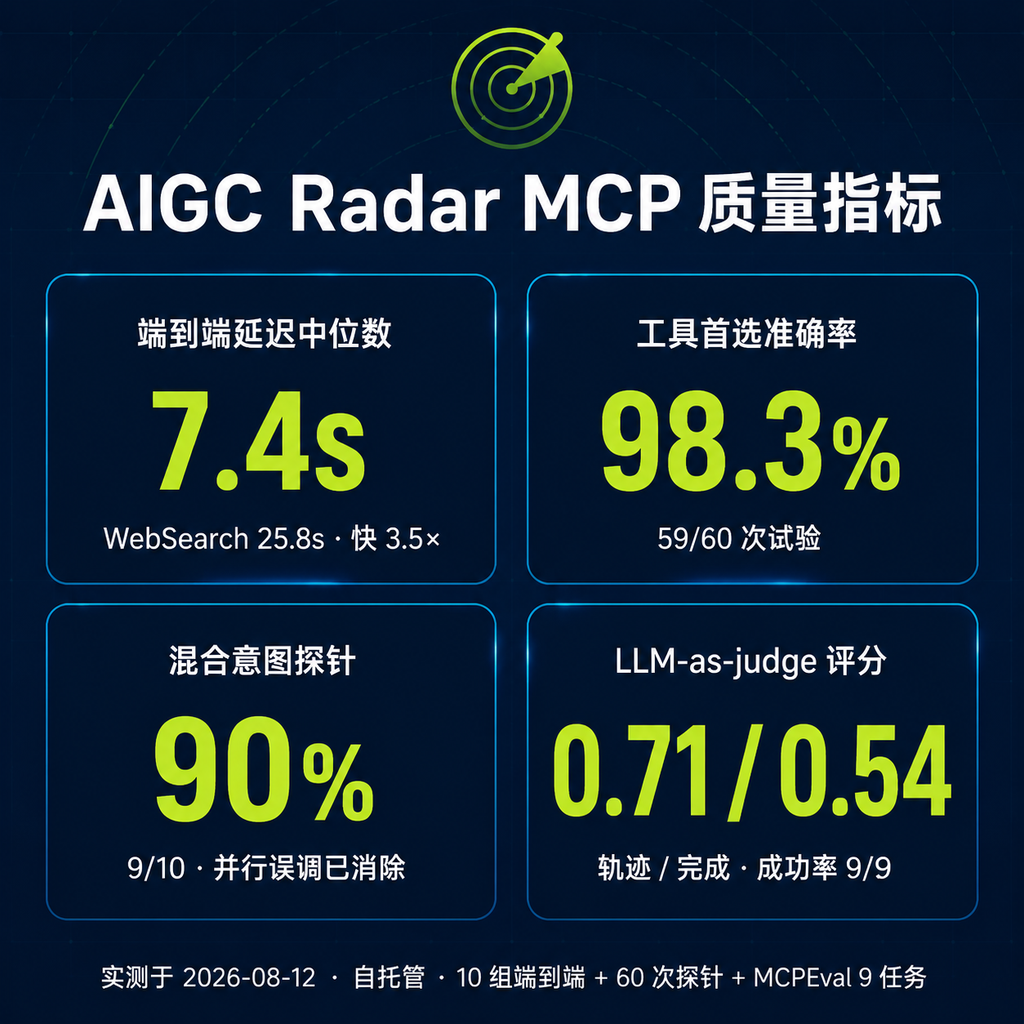
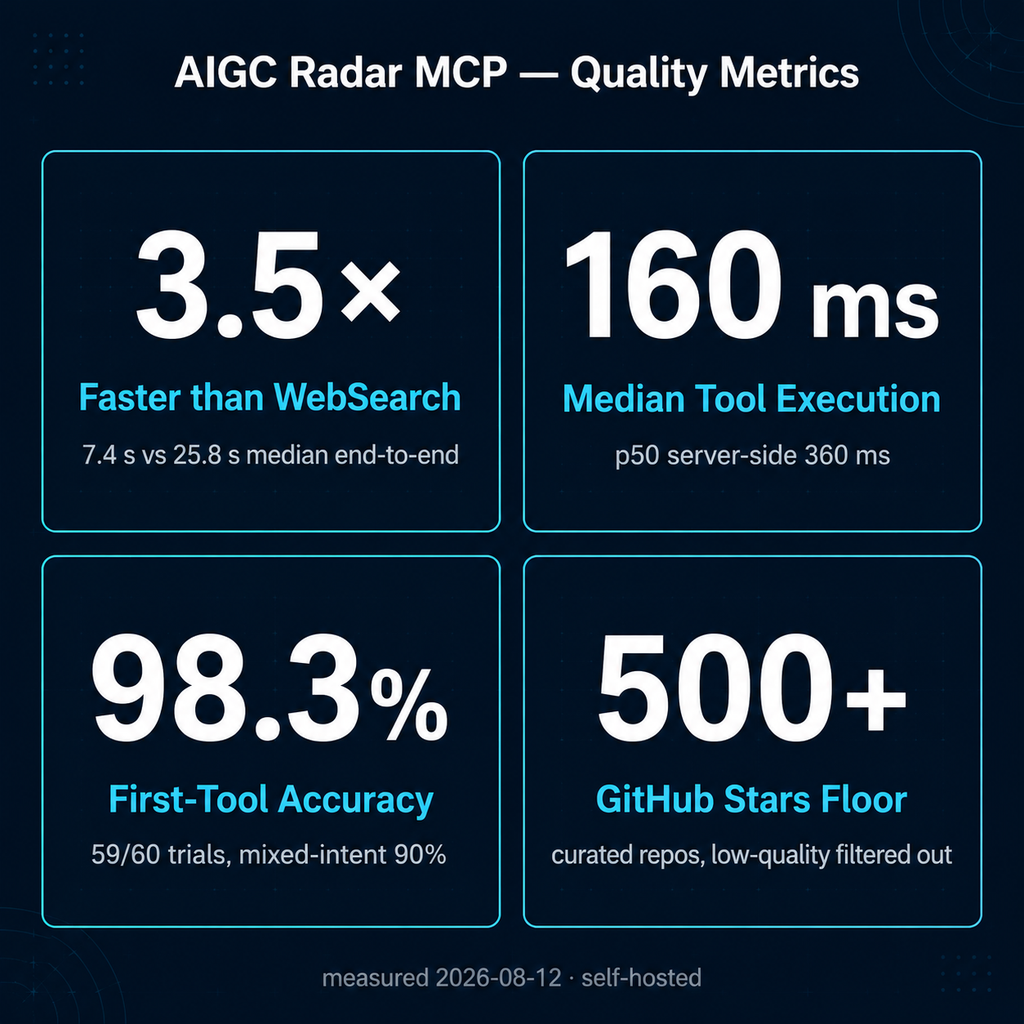
docs(readme): drop LLM-as-judge table, restyle benchmarks in ms, new infographic
- 撤下 LLM-as-judge 评分表：该分数混淆 agent 模型行为且 judge 噪音
  ±0.02–0.08,证据质量不达发布标准;改为说明其作为内部回归门保留,
  方法与原始结果指向 evals/mcp/。
- 亚秒级延迟统一改毫秒口径(360 ms/710 ms/160 ms/41 ms)。
- infographic 重生成:去掉 judge 面板,四格为 3.5×、160 ms、98.3%、
  500+ stars 门槛,同步更新双语 alt 文本。

Changed region(s): [[0.0312, 0.0312, 0.9688, 0.9062], [0.0938, 0.9375, 0.9062, 0.9688]]

diff --git a/README.md b/README.md
@@ -120,13 +120,13 @@ On the context side, it provides resources (`aigc-news://dashboard/summary`, `ai
 
 ### Benchmarks
 
-![AIGC Radar MCP quality metrics: 7.4 s median end-to-end latency (3.5× faster than WebSearch), 98.3% first-tool accuracy (59/60), 90% mixed-intent probes, LLM-as-judge 0.71 trajectory / 0.54 completion with 9/9 task success — measured 2026-08-12](docs/assets/mcp-quality-metrics.png)
+![AIGC Radar MCP quality metrics: 3.5× faster than WebSearch (7.4 s vs 25.8 s median end-to-end), 160 ms median tool execution (p50 server-side 360 ms), 98.3% first-tool accuracy (59/60 trials, mixed-intent 90%), 500+ GitHub stars floor with low-quality repos filtered out — measured 2026-08-12, self-hosted](docs/assets/mcp-quality-metrics.png)
 
 Server-side latency, measured 2026-08-11 with [scripts/benchmark_mcp_latency.py](scripts/benchmark_mcp_latency.py) (JSON-RPC over Streamable HTTP, 6 representative tools × 3 trials, 18 timed `tools/call` requests):
 
 | Endpoint | p50 | p95 | Notes |
 | --- | --- | --- | --- |
-| Self-hosted `http://localhost:8000/api/mcp` | 0.36 s | 0.71 s | backend query processing is sub-second |
+| Self-hosted `http://localhost:8000/api/mcp` | 360 ms | 710 ms | backend query processing is sub-second |
 
 Agent end-to-end vs WebSearch, measured 2026-08-11 with [scripts/benchmark_agent_tool_latency.py](scripts/benchmark_agent_tool_latency.py): headless `claude -p` (claude-opus-4-8, effort low), MCP pointed at `http://127.0.0.1:8000/api/mcp`, wall clock from process spawn to the complete answer, both sides instructed to answer in at most two sentences, 10 distinct queries × 1 run per path:
 
@@ -144,7 +144,7 @@ Agent end-to-end vs WebSearch, measured 2026-08-11 with [scripts/benchmark_agent
 | Claude Code agent skills | 6.7 s | 54.8 s |
 | **Median** | **7.4 s** | **25.8 s** |
 
-MCP finished under 10 s in 9 of 10 pairs while WebSearch never went below 9.9 s — **3.5× faster at the median**. Pure MCP tool execution (`tool_use` → `tool_result`) was 0.16 s at the median (0.03–0.80 s); WebSearch executes its search inside the API turn (server-side tool), so no equivalent client-observable window exists. The 32.9 s MCP outlier is a model-API stall, not tool cost (its tool call took 0.041 s) — the median filters such spikes.
+MCP finished under 10 s in 9 of 10 pairs while WebSearch never went below 9.9 s — **3.5× faster at the median**. Pure MCP tool execution (`tool_use` → `tool_result`) was 160 ms at the median (30–800 ms); WebSearch executes its search inside the API turn (server-side tool), so no equivalent client-observable window exists. The 32.9 s MCP outlier is a model-API stall, not tool cost (its tool call took 41 ms) — the median filters such spikes.
 
 Tool-selection accuracy, measured 2026-08-12 with [scripts/eval_mcp_tool_selection.py](scripts/eval_mcp_tool_selection.py): headless `claude -p` (claude-opus-4-8, effort high) with both host tools and all 7 MCP tools available; a trial passes only if the **first** tool call is the expected AIGC Radar tool with no host-tool detour:
 
@@ -156,20 +156,7 @@ Tool-selection accuracy, measured 2026-08-12 with [scripts/eval_mcp_tool_selecti
 
 Unambiguous probes held 100% in the baseline run; post-change reruns missed only on infrastructure flakes (a harness timeout, a 429 rate-limit that exhausted retries before the first assistant turn), never on wrong-tool routing — so the table pairs the baseline unambiguous count with the post-change mixed-intent count (same harness, same day). Mixed-intent prompts explicitly invite both deliverable types ("projects primarily, papers as a supplement"): earlier runs hedged by calling both candidate tools in parallel, the routing rules in the tool descriptions eliminated that pattern entirely, and the one remaining mixed miss is a model reading a fragment-style prompt as a preference-setting instruction and saving it to memory via Bash — a prompt-interpretation quirk, not wrong-tool routing.
 
-LLM-as-judge quality scores, measured 2026-08-12 with [Salesforce MCPEval](https://github.com/SalesforceAIResearch/MCPEval): 9 auto-generated tasks executed against the self-hosted endpoint (agent model gpt-5.4-mini), trajectories and final answers graded by gpt-5.4 against ground-truth references, 0–1 scale:
-
-| Dimension | Mean score |
-| --- | --- |
-| **Tool-use trajectory** (7 sub-dimensions) | **0.71** |
-| — adaptability | 0.83 |
-| — tool_selection | 0.72 |
-| — planning | 0.69 |
-| **Task completion** (4 sub-dimensions) | **0.54** |
-| — accuracy | 0.61 |
-| — requirement_coverage | 0.52 |
-| Task success rate | 9/9 |
-
-Trajectory scores how well the agent drives the tools; completion scores the agent's final answer against the task requirements. Repeated gradings of identical trajectories drift by ±0.02–0.08 (one grading hit a judge parse failure that scored a healthy task 0.0), so treat ±0.05 as harness noise. Paper payloads carry authors and arXiv IDs end-to-end (persisted, backfilled across the whole index, exposed by every paper tool), and judge comments no longer cite missing attribution data — the remaining completion gap is the agent model's answer composition, which surfaces the available attribution inconsistently, not tool capability.
+We also run [Salesforce MCPEval](https://github.com/SalesforceAIResearch/MCPEval) LLM-as-judge scoring (trajectory + completion) as an internal regression gate after every MCP-facing change. Its scores conflate tool quality with agent-model behavior and drift ±0.02–0.08 between gradings, so we do not publish them; the methodology and raw results live in `evals/mcp/`.
 
 Reproduce:
 

diff --git a/README.zh-CN.md b/README.zh-CN.md
@@ -120,13 +120,13 @@ Context 侧提供 resources（`aigc-news://dashboard/summary`、`aigc-news://rep
 
 ### 性能实测
 
-![AIGC Radar MCP 质量指标：端到端延迟中位数 7.4 s（比 WebSearch 快 3.5×）、工具首选准确率 98.3%（59/60）、混合意图探针 90%、LLM-as-judge 轨迹 0.71 / 完成 0.54、任务成功率 9/9 —— 实测于 2026-08-12](docs/assets/mcp-quality-metrics.png)
+![AIGC Radar MCP 质量指标：比 WebSearch 快 3.5×（端到端中位数 7.4 s 对 25.8 s）、工具执行中位 160 ms（服务端 p50 360 ms）、工具首选准确率 98.3%（59/60 次试验，混合意图 90%）、500+ GitHub stars 门槛过滤低质量仓库 —— 实测于 2026-08-12，自托管](docs/assets/mcp-quality-metrics.png)
 
 服务端延迟，测于 2026-08-11，可用 [scripts/benchmark_mcp_latency.py](scripts/benchmark_mcp_latency.py) 复现（Streamable HTTP JSON-RPC，6 个代表性工具 × 3 轮，共 18 次 `tools/call` 计时）：
 
 | Endpoint | p50 | p95 | 说明 |
 | --- | --- | --- | --- |
-| 自托管 `http://localhost:8000/api/mcp` | 0.36 s | 0.71 s | 后端查询处理本身为亚秒级 |
+| 自托管 `http://localhost:8000/api/mcp` | 360 ms | 710 ms | 后端查询处理本身为亚秒级 |
 
 Agent 端到端对比 WebSearch，测于 2026-08-11，可用 [scripts/benchmark_agent_tool_latency.py](scripts/benchmark_agent_tool_latency.py) 复现：headless `claude -p`（claude-opus-4-8，effort low），MCP 指向 `http://127.0.0.1:8000/api/mcp`，wall-clock 从进程启动计到产出完整回答，两侧均要求用不超过两句话作答，10 组不同查询 × 每条路径各 1 次：
 
@@ -144,7 +144,7 @@ Agent 端到端对比 WebSearch，测于 2026-08-11，可用 [scripts/benchmark_
 | Claude Code agent skills | 6.7 s | 54.8 s |
 | **中位数** | **7.4 s** | **25.8 s** |
 
-MCP 在 10 组中有 9 组低于 10 秒，WebSearch 从未低于 9.9 秒——**中位口径快 3.5 倍**。纯 MCP 工具执行（`tool_use` → `tool_result`）中位数 0.16 s（0.03–0.80 s）；WebSearch 的搜索在 API 回合内部执行（server-side 工具），客户端无法观测到等价窗口。32.9 s 的 MCP 离群值是模型 API 停顿而非工具耗时（该次工具调用仅 0.041 s）——中位数口径天然排除此类波动。
+MCP 在 10 组中有 9 组低于 10 秒，WebSearch 从未低于 9.9 秒——**中位口径快 3.5 倍**。纯 MCP 工具执行（`tool_use` → `tool_result`）中位数 160 ms（30–800 ms）；WebSearch 的搜索在 API 回合内部执行（server-side 工具），客户端无法观测到等价窗口。32.9 s 的 MCP 离群值是模型 API 停顿而非工具耗时（该次工具调用仅 41 ms）——中位数口径天然排除此类波动。
 
 工具选用准确率，测于 2026-08-12，可用 [scripts/eval_mcp_tool_selection.py](scripts/eval_mcp_tool_selection.py) 复现：headless `claude -p`（claude-opus-4-8，effort high），宿主工具与全部 7 个 MCP 工具同时可用；仅当**首个**工具调用命中预期的 AIGC Radar 工具且全程无宿主工具绕行时记为通过：
 
@@ -156,20 +156,7 @@ MCP 在 10 组中有 9 组低于 10 秒，WebSearch 从未低于 9.9 秒——**
 
 明确意图探针在基线跑次保持 100%；改动后复测的未命中全部是基础设施抖动（一次 harness 超时、一次 429 限流重试耗尽、首个助手回合尚未产出），无一例路由错误——表中因此取基线明确意图数据与改动后混合意图数据的组合（同天同 harness）。混合意图提示词明确邀请两类交付物（"以项目为主、论文为辅"）：早期试验中模型会把两个候选工具并行都调，工具描述中的路由规则已彻底消除这一模式——剩余一次未命中是模型把碎片式提示词解读成偏好设置指令、转而用 Bash 写入记忆，属提示词解读分歧而非路由错误。
 
-LLM-as-judge 质量评分，测于 2026-08-12，使用 [Salesforce MCPEval](https://github.com/SalesforceAIResearch/MCPEval)：9 个自动生成的任务在自托管 endpoint 上执行（agent 模型 gpt-5.4-mini），由 gpt-5.4 对照 ground-truth 轨迹与参考答案打分，0–1 量表：
-
-| 维度 | 平均分 |
-| --- | --- |
-| **工具使用轨迹**（7 个子维度） | **0.71** |
-| — adaptability（应变） | 0.83 |
-| — tool_selection（工具选择） | 0.72 |
-| — planning（规划） | 0.69 |
-| **任务完成度**（4 个子维度） | **0.54** |
-| — accuracy（准确性） | 0.61 |
-| — requirement_coverage（需求覆盖） | 0.52 |
-| 任务成功率 | 9/9 |
-
-轨迹分衡量 agent 驱动工具的过程质量，完成分衡量 agent 最终回答对照任务要求的达成度。对同一轨迹重复打分会漂移 ±0.02–0.08（其中一次评分遭遇 judge 解析失败，把健康轨迹记为 0.0），±0.05 以内应视为评测噪音。论文载荷现已全链路携带作者与 arXiv ID（持久化 + 全量回填 + 所有论文工具透出），judge 评语不再报告归因数据缺失——剩余完成分差距来自 agent 模型的答案组织（对可用归因信息引用不一致），而非工具能力。
+我们还会在每次 MCP 面改动后用 [Salesforce MCPEval](https://github.com/SalesforceAIResearch/MCPEval) 跑 LLM-as-judge 评分（轨迹 + 完成度）作为内部回归门。该分数混淆了工具质量与 agent 模型行为，且重复打分漂移 ±0.02–0.08，故不对外发布；评测方法与原始结果见 `evals/mcp/`。
 
 复现：
 
